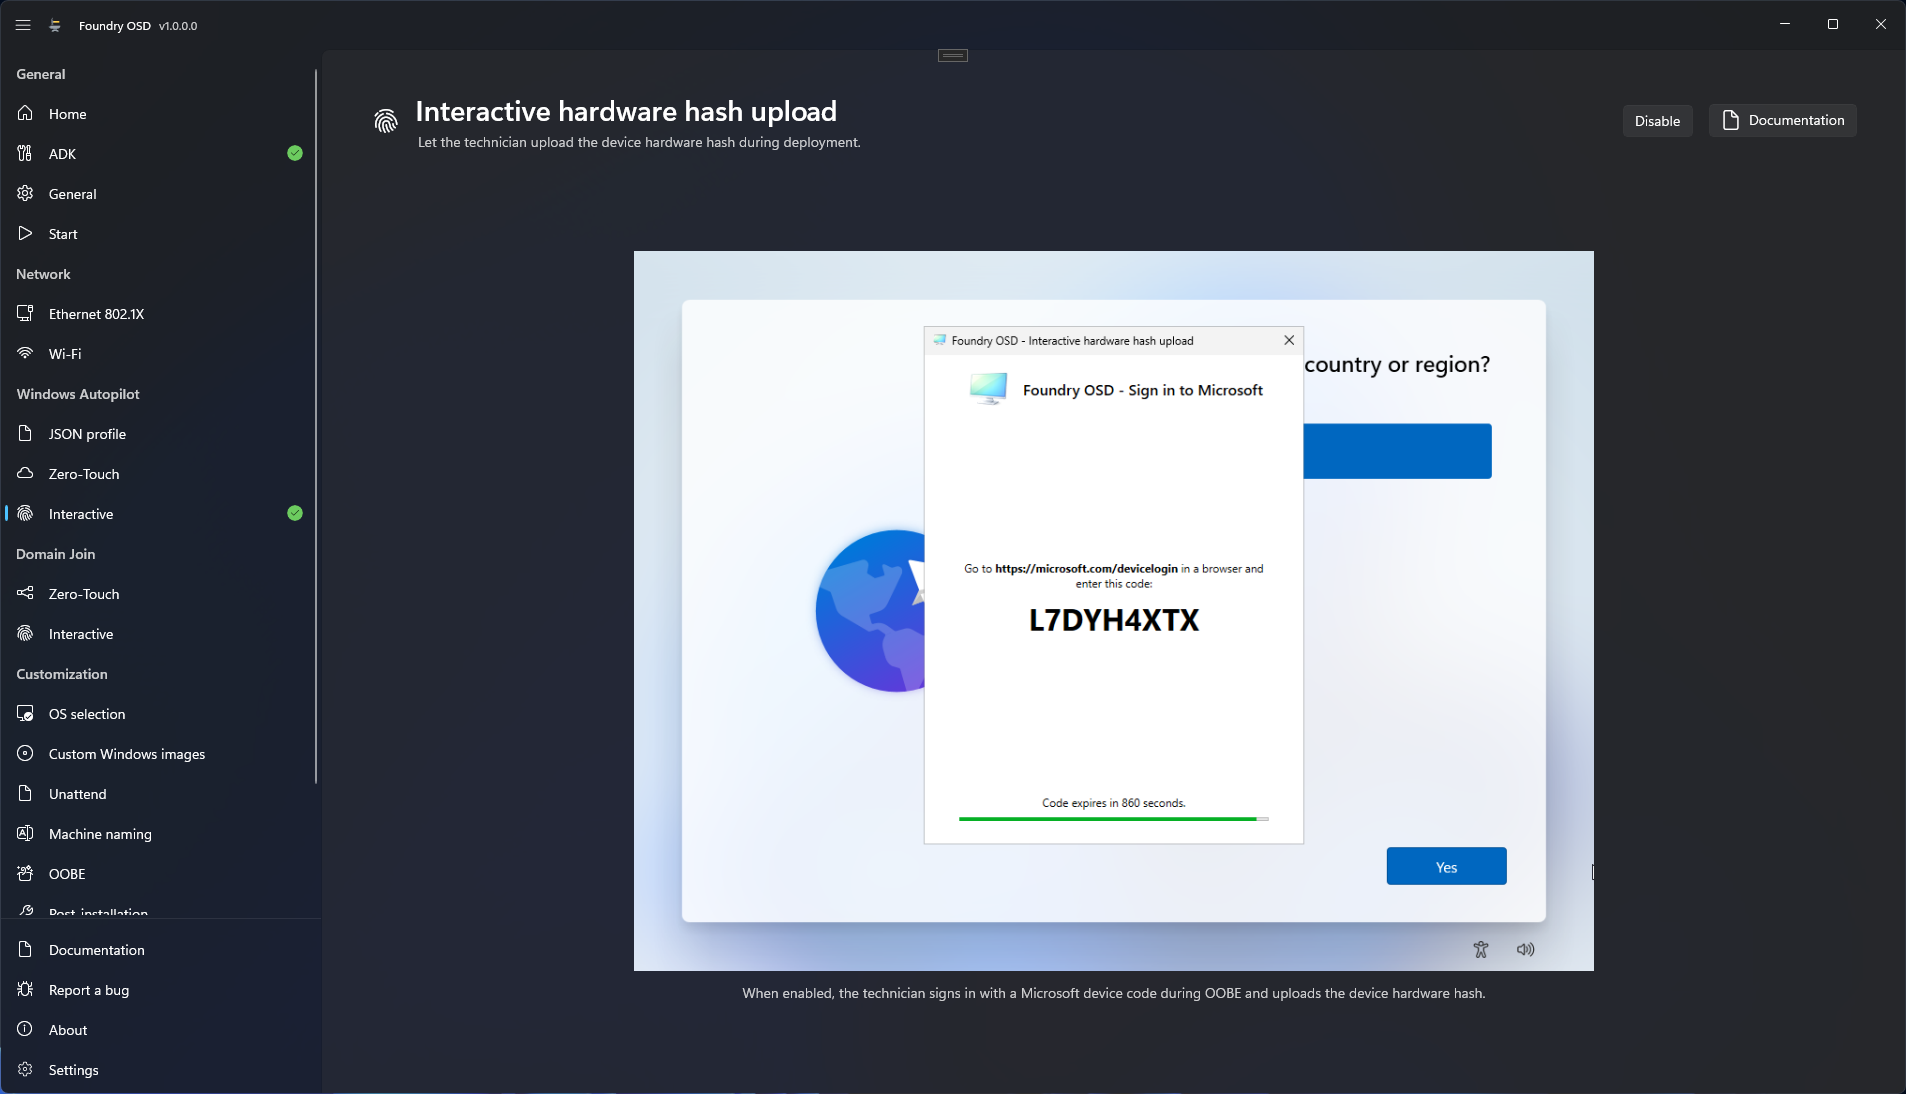
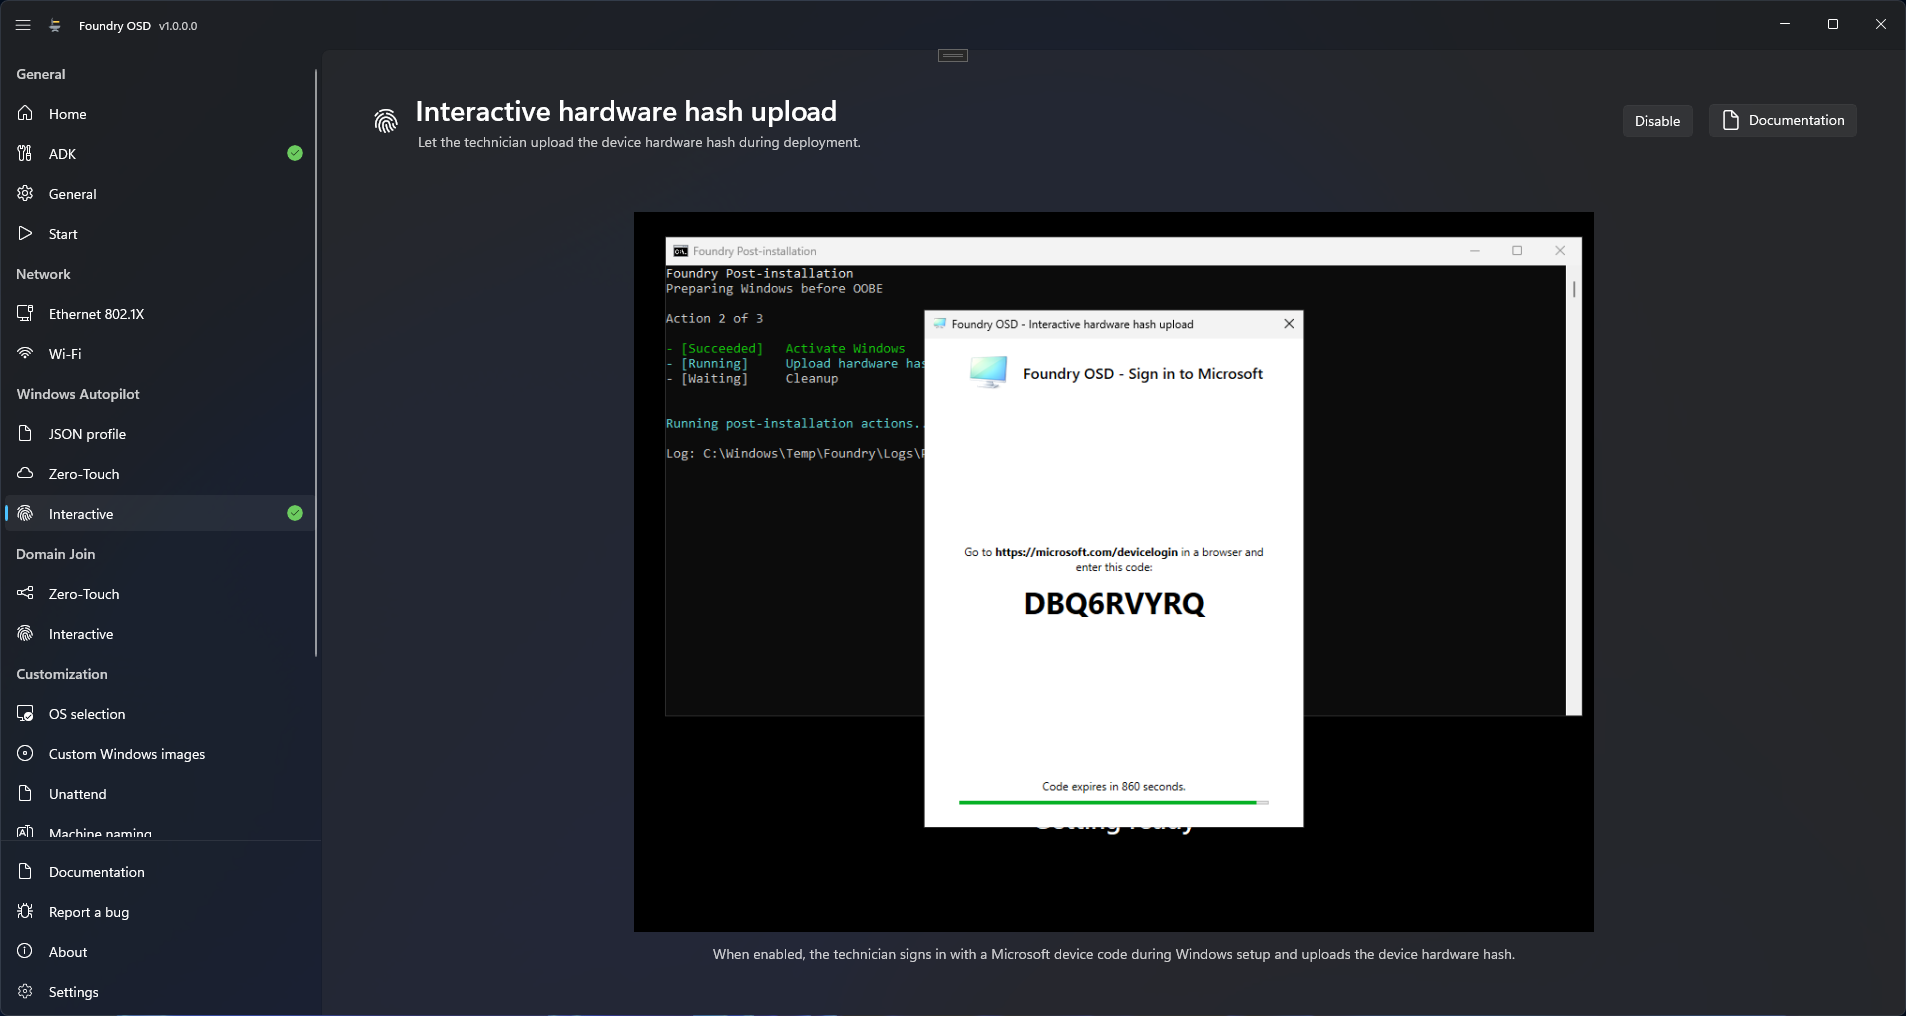
docs(autopilot): describe the interactive upload during Windows setup (#48)

diff --git a/troubleshooting/autopilot/after-the-restart.md b/troubleshooting/autopilot/after-the-restart.md
@@ -1,6 +1,6 @@
 # Windows Autopilot troubleshooting after the restart
 
-Use this page for the upload window of the interactive mode, which opens in Windows setup (OOBE) after the restart, and for what you find in your tenant once a device is registered. For Foundry OSD, see [Windows Autopilot troubleshooting](../autopilot.md); for Foundry Deploy, see [During deployment](during-deployment.md).
+Use this page for the upload window of the interactive mode, which opens during Windows setup after the restart, in front of the **Foundry Post-installation** console, and for what you find in your tenant once a device is registered. For Foundry OSD, see [Windows Autopilot troubleshooting](../autopilot.md); for Foundry Deploy, see [During deployment](during-deployment.md).
 
 | What you see | Go to |
 | --- | --- |
@@ -18,17 +18,15 @@ The files named under **Collect** are described in [Evidence files](#evidence-fi
 ## The upload window does not open after the restart <a href="#no-upload-window" id="no-upload-window"></a>
 
 - **Where:** Windows setup, after a deployment in interactive mode.
-- **Cause:** the files of `C:\Windows\Temp\Foundry\Logs\AutopilotRegistration` tell which case applies.
-  - `oobe-waiter.log` reads "Autopilot registration is already completed.": the device was registered by an earlier run on this installation. The window opens once.
-  - `foreground.log` reads "Foreground wrapper failed. Timed out while waiting for OOBE foreground access.": the window comes to the front through the command prompt of Windows setup, and that prompt did not open within 2 minutes.
-  - `oobe-waiter.log` reads "Timed out while waiting for active console session.": Windows setup did not show a screen within 20 minutes.
-  - `OOBE.log` does not exist: Windows setup did not run Foundry's command.
-  - The media does not use the interactive mode: **Steps** had no **Prepare Autopilot assistant** step.
+- **Cause:** the line `Upload hardware hash to Windows Autopilot` of the **Foundry Post-installation** console tells which case applies.
+  - The line shows `[Succeeded]` at once and `registration.log` reads "Autopilot registration is already completed.": the device was registered by an earlier run on this installation. The window opens once.
+  - The line shows `[Failed]` and `failureCode` in `C:\Windows\Temp\Foundry\State\PreOobe\execution-result.json` is `autopilot_assistant_missing`: the files of the window were not copied to the device.
+  - The console has no such line: the media does not use the interactive mode, and **Steps** had no **Prepare Autopilot assistant** step.
+  - No console opens at all: see [No Foundry Post-installation console appears](../after-the-restart.md#no-console).
 - **Fix:**
-  1. Wait 2 minutes on the first Windows setup screen before you conclude.
-  2. If the command prompt of Windows setup is disabled in your image, use another image or the zero-touch mode.
-  3. Otherwise register the device another way and send the files below.
-- **Collect:** `OOBE.log`, `oobe-launcher.log`, `oobe-waiter.log`, `oobe-sessiondiag.log` and `foreground.log`.
+  1. For `autopilot_assistant_missing`, deploy the device again.
+  2. Otherwise register the device another way and send the files below.
+- **Collect:** `registration.log`, `C:\Windows\Temp\Foundry\Logs\PreOobe\autopilot-registration\Process\output.log` and `execution-result.json`.
 
 ## "Waiting for network connectivity." <a href="#waiting-for-network-connectivity" id="waiting-for-network-connectivity"></a>
 
@@ -76,7 +74,7 @@ After the wait began, the window shows the reason itself and **Upload** becomes 
 - **Where:** Windows setup, after a registration that succeeded.
 - **Cause:**
   - Foundry waits for the device to be listed in the tenant, not for a profile to be assigned to it. Your tenant can need more time.
-  - In interactive mode the device restarts 10 seconds after the upload, so Windows setup can start again before the profile is assigned.
+  - In interactive mode Windows setup continues 10 seconds after the upload, so OOBE can start before the profile is assigned.
   - The group tag is missing or wrong, and your tenant uses it to assign the profile. A device that was already registered loses its tag when **None** is chosen in Foundry Deploy or in the upload window.
   - A custom answer file was used with the zero-touch mode. Foundry Deploy then warns "Hash upload does not guarantee Autopilot enrollment."
   - The profile assignment fails with "Self-Deploying mode requires TPM 2.0 hardware" although the device has a TPM 2.0: its registered hardware hash does not carry the TPM version. Your tenant keeps that hash until the device is registered again.
@@ -101,7 +99,13 @@ In `C:\Windows\Temp\Foundry\Logs\AutopilotRegistration`:
 | --- | --- |
 | `registration.log` | What the upload window did, with the reason of a failure |
 | `graph.log` | Microsoft Graph requests and their errors |
-| `OOBE.log`, `oobe-launcher.log`, `oobe-waiter.log`, `oobe-sessiondiag.log`, `foreground.log`, `launcher.log` | How the window was started from Windows setup |
+| `launcher.log` | Only when the window was started by hand with `C:\Windows\Temp\Foundry\Runtime\AutopilotRegistration\Start-FoundryAutopilotRegistration.cmd` |
+
+In `C:\Windows\Temp\Foundry\Logs\PreOobe\autopilot-registration\Process`:
+
+| File | Content |
+| --- | --- |
+| `output.log` | What the window wrote while it ran, written when it closes |
 
 In `C:\Windows\Temp\Foundry\State\AutopilotRegistration`:
 

diff --git a/foundry-osd/autopilot/interactive-hardware-hash.md b/foundry-osd/autopilot/interactive-hardware-hash.md
@@ -1,6 +1,6 @@
 # Interactive hardware hash upload
 
-**Interactive hardware hash upload** lets the technician register the device in Windows Autopilot with their own account. After the restart, a Foundry window opens at the start of Windows setup (OOBE); the technician signs in with a code on another device and uploads the hardware hash. The deployment media carries no tenant data and no secret.
+**Interactive hardware hash upload** lets the technician register the device in Windows Autopilot with their own account. After the restart, while Windows setup is still installing and before its first-run screens (OOBE), a Foundry window opens; the technician signs in with a code on another device and uploads the hardware hash. The deployment media carries no tenant data and no secret.
 
 <figure>
   <img src="../../.gitbook/assets/foundry-osd-autopilot-interactive-01-configuration.png" alt="Interactive hardware hash upload page of Foundry OSD with the Disable button and a picture of the sign-in window">
@@ -13,7 +13,8 @@ Foundry OSD cannot test any of these from the workstation. Check them with one r
 
 - **A technician account in your tenant.** The window signs the technician in to Foundry's own Microsoft Entra application and asks for one delegated Microsoft Graph permission, `DeviceManagementServiceConfig.ReadWrite.All`. Foundry does not check that the account may use it. Check with your tenant administrator that this application and this account are allowed to register Windows Autopilot devices.
 - **Sign-in with a code on another device.** The technician opens `https://microsoft.com/devicelogin` on a phone or another computer. Check with your tenant administrator that this kind of sign-in is allowed.
-- **Network after the restart.** The window runs in installed Windows, not in Windows PE. The device must then reach the Microsoft sign-in and Microsoft Graph hosts listed in [Network endpoints](../../reference/network-endpoints.md).
+- **Network after the restart.** The window runs in installed Windows, not in Windows PE. The device must then reach the Microsoft sign-in and Microsoft Graph hosts listed in [Network endpoints](../../reference/network-endpoints.md). For Wi-Fi or Ethernet 802.1X, turn on [Windows profile roaming](../network/README.md#windows-profile-roaming): the profile is imported before the window opens.
+- **A custom answer file must accept Foundry's command.** The window opens from the [Post-installation](../customization/post-installation.md) console, so a custom answer file must follow [When Foundry adds its command](../customization/unattend/answer-file-rules.md#when-foundry-adds-its-command).
 
 ## Configure interactive upload
 
@@ -24,7 +25,7 @@ There is nothing else to set: the group tag is chosen by the technician at each 
 
 ## What the technician sees
 
-Foundry Deploy shows no **Autopilot** step in this mode; the deployment only runs **Prepare Autopilot assistant**. After the restart, the window **Foundry OSD - Interactive hardware hash upload** asks the technician to sign in, to choose a group tag and to select **Upload**. The device restarts by itself 10 seconds after a successful upload. See [Windows Autopilot step](../../foundry-deploy/autopilot.md) for the procedure.
+Foundry Deploy shows no **Autopilot** step in this mode; the deployment only runs **Prepare Autopilot assistant**. After the restart, the **Foundry Post-installation** console runs the line `Upload hardware hash to Windows Autopilot`, and the window **Foundry OSD - Interactive hardware hash upload** opens in front of it. It asks the technician to sign in, to choose a group tag and to select **Upload**. 10 seconds after a successful upload the window closes and Windows setup continues to OOBE, without a restart. See [Windows Autopilot step](../../foundry-deploy/autopilot.md) for the procedure.
 
 ## Check the result
 
@@ -34,11 +35,11 @@ Foundry Deploy shows no **Autopilot** step in this mode; the deployment only run
 
 ## Limits
 
-- **The device restarts before you can check the tenant.** Foundry waits up to 15 minutes for the device to be listed, not for a profile to be assigned. Windows setup can therefore start again before your tenant has assigned a profile.
+- **Windows setup continues before you can check the tenant.** Foundry waits up to 15 minutes for the device to be listed, not for a profile to be assigned. OOBE can therefore start before your tenant has assigned a profile.
 - **The technician chooses the group tag**, including **None**. [Windows Autopilot step](../../foundry-deploy/autopilot.md) says what each choice does to a device that is already registered.
 - **The window opens once.** After a successful upload it does not open again on that installation.
 - **The window is in English**, whatever the language of Windows.
-- **The window needs the command prompt of Windows setup.** It opens it with Shift+F10 to come to the front; if that prompt is not available in your image, the window does not appear.
+- **Windows setup waits for the window for up to 60 minutes.** If the technician closes it before a successful upload, or the time runs out, the device is not registered: the console ends with warnings and Windows setup continues.
 - To send the computer name as well, turn on **Upload computer name to Autopilot** on [Machine naming](../customization/machine-naming.md). The name is assigned after the technician selects **Upload**, once the device is listed.
 
 ## Related

diff --git a/foundry-deploy/autopilot.md b/foundry-deploy/autopilot.md
@@ -45,10 +45,10 @@ Each reason is explained in [Windows Autopilot troubleshooting during deployment
 
 ## Upload the hardware hash after the restart
 
-Interactive mode only. At the start of Windows setup (OOBE), a window titled **Foundry OSD - Interactive hardware hash upload** opens in front; a command prompt may flash first. The window is in English. Do not go through Windows setup behind it: the device restarts when the upload succeeds.
+Interactive mode only. After the restart, while Windows setup is still installing, the **Foundry Post-installation** console runs the line `Upload hardware hash to Windows Autopilot` and a window titled **Foundry OSD - Interactive hardware hash upload** opens in front of it. The window is in English. Windows setup waits until the window closes, for up to 60 minutes.
 
 <figure>
-  <img src="../.gitbook/assets/foundry-deploy-autopilot-02-device-code-sign-in.png" alt="Foundry OSD - Interactive hardware hash upload window showing a sign-in code and its countdown over the first Windows setup screen">
+  <img src="../.gitbook/assets/foundry-deploy-autopilot-02-device-code-sign-in.png" alt="Foundry OSD - Interactive hardware hash upload window showing a sign-in code and its countdown, in front of the Foundry Post-installation console during Windows setup">
   <figcaption>Enter the code on another device. The code shown here is an example.</figcaption>
 </figure>
 
@@ -57,8 +57,8 @@ Interactive mode only. At the start of Windows setup (OOBE), a window titled **F
 3. When the window changes to **Foundry OSD - Upload hardware hash**, choose the **Group tag**: **None**, a tag already used in the tenant, or **Custom** to type one in **Custom group tag**. As in the wizard, **None** removes the tag of a device that is already registered.
 4. Select **Upload**.
 5. Wait while the window reads "Waiting for device registration in Microsoft Intune.", for up to 15 minutes.
-6. When it reads "Restarting in 10 seconds.", the upload has succeeded. The device restarts by itself, and the window does not open again afterwards.
+6. When it reads "Continuing Windows setup in 10 seconds.", the upload has succeeded. The window closes by itself and Windows setup continues to its first-run screens (OOBE), without a restart. The window does not open again afterwards.
 
-If the upload fails, the reason stays in the window and **Upload** becomes available again: correct the cause, then select **Upload** again. See [Windows Autopilot troubleshooting after the restart](../troubleshooting/autopilot/after-the-restart.md).
+If the upload fails, the reason stays in the window and **Upload** becomes available again: correct the cause, then select **Upload** again. If you close the window instead, the device is not registered, the console line shows `[Failed]` and Windows setup continues. See [Windows Autopilot troubleshooting after the restart](../troubleshooting/autopilot/after-the-restart.md).
 
 Next: [Review and deploy](review-and-deploy.md) in the wizard, and [After the restart](after-the-restart.md) for everything else that happens after the restart.

diff --git a/troubleshooting/after-the-restart.md b/troubleshooting/after-the-restart.md
@@ -140,6 +140,7 @@ The files named below are on the Windows volume of the deployed device: Foundry'
 | `Remove AppX packages`, `Remove AI components` | Windows could not list the installed packages. The sequence stops. A package that cannot be removed is only a warning. | `Logs\PreOobe\appx-servicing.log` |
 | `Activate Windows` | See [Activation](#not-activated). The sequence continues, with warnings, unless the task takes more than 60 seconds. | `execution-result.json` |
 | `Join domain and place computer`, `Verify domain membership` | See [Domain Join troubleshooting](domain-join.md). The sequence continues, with warnings. | The Domain Join lines |
+| `Upload hardware hash to Windows Autopilot` | The Windows Autopilot window was closed before a successful upload, stayed open for 60 minutes, or was not copied to the device. The sequence continues, with warnings; the device is not registered. | `failureCode` in `execution-result.json`, then [Windows Autopilot troubleshooting after the restart](autopilot/after-the-restart.md) |
 | `Cleanup` | Temporary files or settings could not be removed. The sequence ends with warnings. | [Leftover files](#leftover-files) |
 
 - **Fix:** for `Install drivers` and the removals, deploy again. If `Install drivers` fails again, select another driver source in Foundry Deploy. For the other tasks, follow the linked section.
@@ -209,7 +210,7 @@ The files named below are on the Windows volume of the deployed device: Foundry'
 On the deployed device, once Windows is reachable:
 
 1. Open `C:\Windows\Temp\Foundry\State\PreOobe\plan.json`. Under `actions`, each entry has an `id` and a `name`. The administrator's actions have a 32-character identifier; Foundry's tasks have a short one such as `driver-pack` or `cleanup`.
-2. Open `C:\Windows\Temp\Foundry\Logs\PreOobe\<id>\Process\output.log`. It holds the standard output of the action, then its error output, each limited to 2,097,152 characters. Foundry's tasks have no such file.
+2. Open `C:\Windows\Temp\Foundry\Logs\PreOobe\<id>\Process\output.log`. It holds the standard output of the action, then its error output, each limited to 2,097,152 characters. Foundry's tasks have no such file, except `autopilot-registration`, the Windows Autopilot window.
 3. For an MSI with **Generate installation log**, the installer log is `<installer name>.log` in `Logs\PreOobe\<id>`.
 4. In `State\PreOobe\execution-result.json`, the entry with the same identifier under `actions` gives `status`, `exitCode`, `failureCode` and the start and end times.
 

diff --git a/foundry-deploy/after-the-restart.md b/foundry-deploy/after-the-restart.md
@@ -49,6 +49,7 @@ Only the tasks the deployment needs are listed.
 | `Remove AI components` | Copilot or AI Hub removal is selected. |
 | `Remove AppX packages` | AppX removals are selected. |
 | `Activate Windows` | See [Windows activation](#windows-activation). |
+| `Upload hardware hash to Windows Autopilot` | The interactive hardware hash upload of Windows Autopilot is enabled. See [Windows Autopilot window](#windows-autopilot-window). |
 | `Cleanup` | Always, after the administrator's actions. |
 
 </details>
@@ -87,7 +88,7 @@ Both lines are on screen from the first second, reading `Join: NotStarted; Place
 
 ## Windows Autopilot window
 
-With the interactive hardware hash upload, the Autopilot window opens later, on the first Windows setup screens, after this console has closed. See [Windows Autopilot step](autopilot.md).
+With the interactive hardware hash upload, the line `Upload hardware hash to Windows Autopilot` opens the Autopilot window in front of this console, and the console waits until the window closes, for up to 60 minutes. See [Upload the hardware hash after the restart](autopilot.md#upload-the-hardware-hash-after-the-restart).
 
 ## Hand over the device
 

diff --git a/foundry-osd/customization/unattend/answer-file-rules.md b/foundry-osd/customization/unattend/answer-file-rules.md
@@ -23,7 +23,7 @@ Foundry checks the format of a file when you import it, and its architecture on 
 
 ## When Foundry adds its command <a href="#when-foundry-adds-its-command" id="when-foundry-adds-its-command"></a>
 
-Foundry adds one command to the deployment copy whenever the deployment has work to do after the restart: Post-installation actions, AppX or AI component removals, a driver pack installed after the restart, network profiles copied to Windows, or Domain Join.
+Foundry adds one command to the deployment copy whenever the deployment has work to do after the restart: Post-installation actions, AppX or AI component removals, a driver pack installed after the restart, network profiles copied to Windows, Domain Join, or the interactive hardware hash upload of Windows Autopilot.
 
 The command goes at the end of the `RunSynchronous` list of the `Microsoft-Windows-Deployment` component in the `specialize` pass, with an `Order` one more than the highest in that list. Your `specialize` commands therefore run before Foundry's work and your `oobeSystem` commands after it. The file must have:
 
